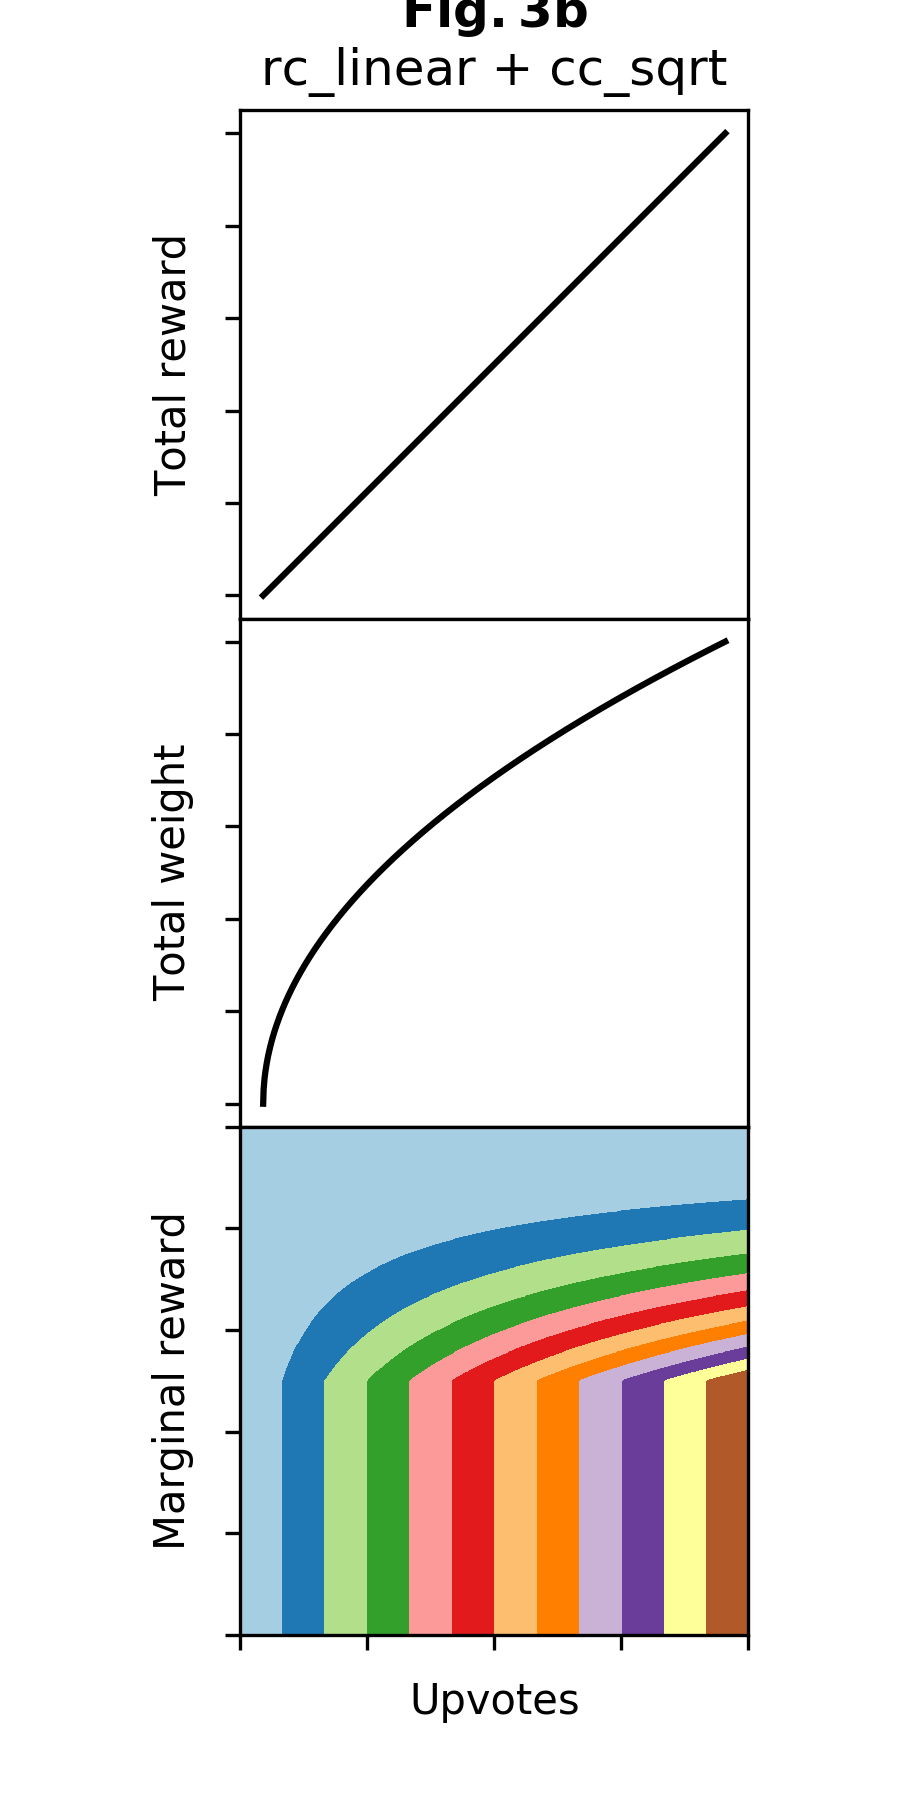
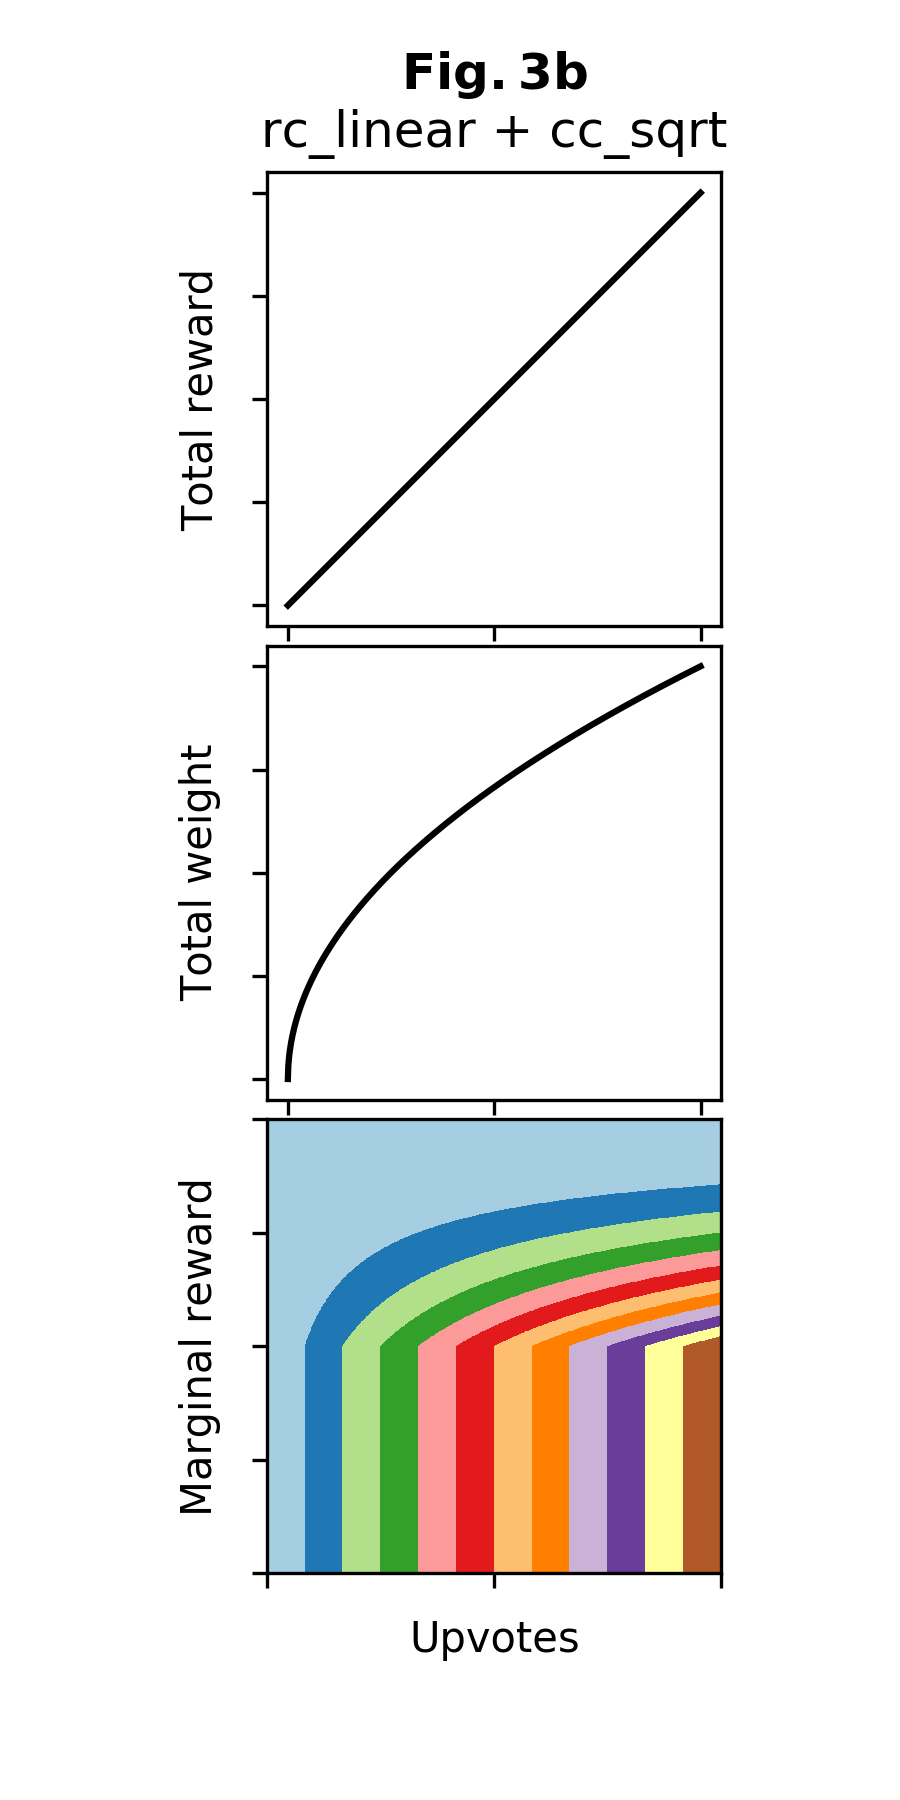
Fix figure label cutoff #13

Changed region(s): [[0.1556, 0.0, 0.84, 0.9644], [0.4044, 0.4667, 0.4667, 0.4978]]

diff --git a/smt-manual/pie.py b/smt-manual/pie.py
@@ -198,7 +198,7 @@ for rc in reward_curves:
         plt.clf()
         fig = plt.figure(frameon=False)
         plt.subplots(nrows=3, ncols=1, figsize=(3, 6))
-        plt.tight_layout(pad=2.25)
+        plt.tight_layout(pad=3.5)
 
         ax_rc = plt.subplot(3, 1, 1, adjustable="box-forced")
         ax_rc.set_xticklabels([])
